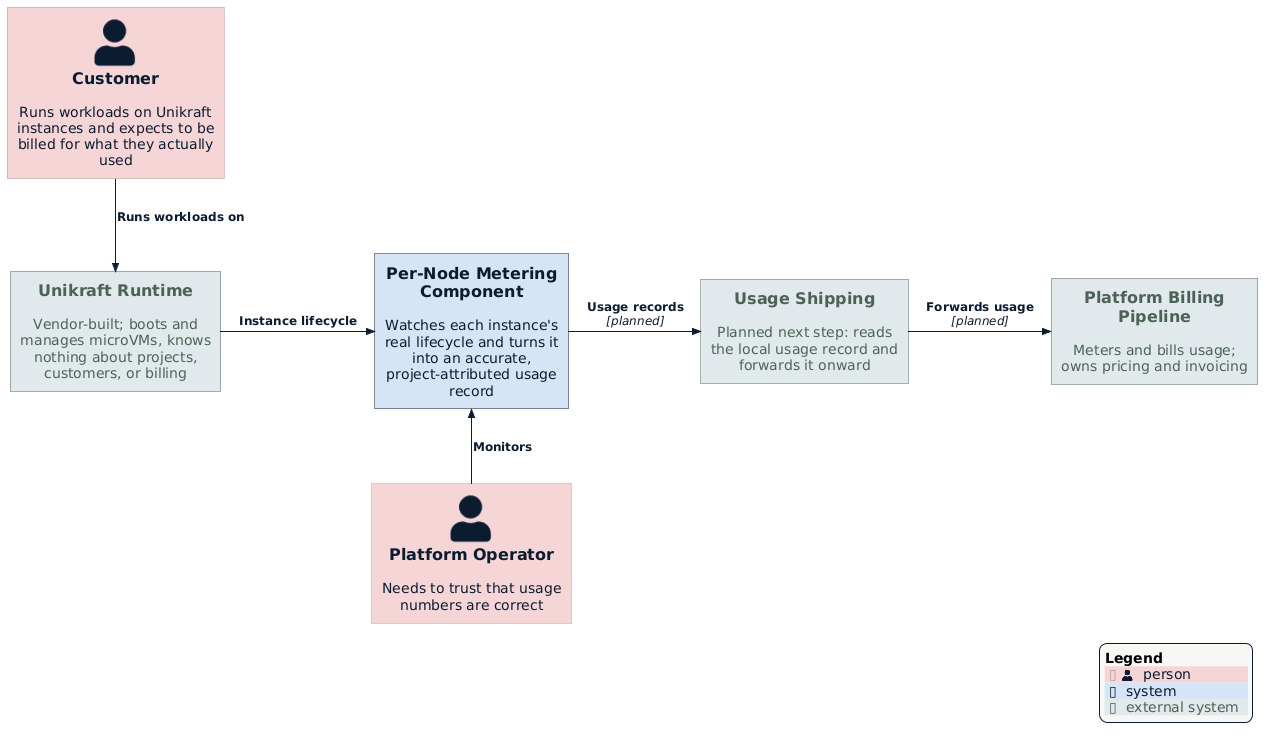
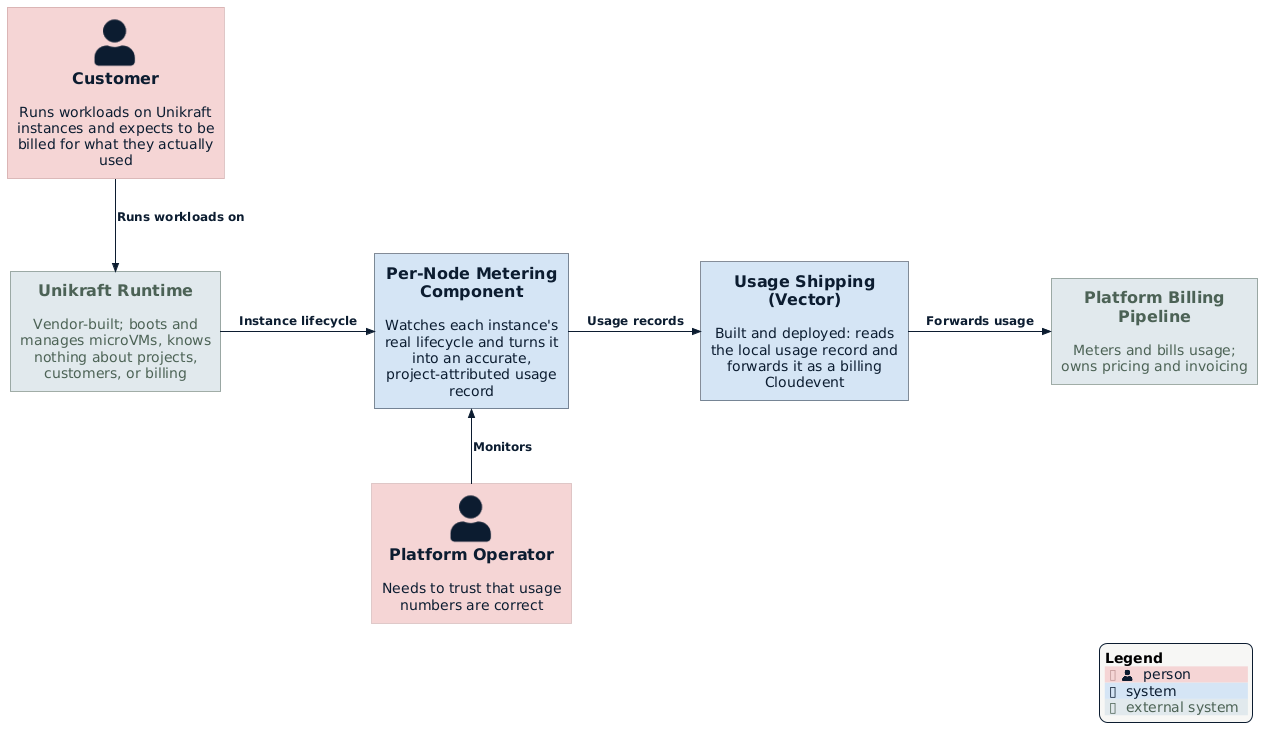
feat: implement usage shipping with Vector and update architecture documentation to reflect full validation against production traffic

Changed region(s): [[0.5528, 0.3419, 0.737, 0.5595], [0.7063, 0.4041, 0.8291, 0.4662], [0.4606, 0.4041, 0.5528, 0.4662]]

diff --git a/docs/enhancements/usage-metering/README.md b/docs/enhancements/usage-metering/README.md
@@ -34,11 +34,12 @@ component, running on every node, that watches each instance's real lifecycle as
 happens and turns it into an accurate record: which project it belongs to, and exactly
 how long it actually ran.
 
-That record is the raw material a second, much simpler step will use: reading it and
+That record is the raw material a second, much simpler step uses: reading it and
 forwarding it, in the platform's standard format, to wherever usage is ultimately
-metered and billed. The first half — producing an accurate, attributed usage record —
-is built and has been validated end to end. The second half — shipping that record
-onward — is the next step, and is a comparatively small piece of work, because the hard
+metered and billed. Both halves are now built. The first — producing an accurate,
+attributed usage record — has been validated end to end, including against real
+production traffic. The second — shipping that record onward — is implemented as a
+Vector agent that tails the record and forwards it as a billing Cloudevent; the hard
 problem here was never "how do we move data," it was "how do we know, correctly, what
 happened and to whom."
 
@@ -78,11 +79,9 @@ provisioned.
   does not decide what anyone owes.
 - **Metering anything that isn't actually running.** Reserved-but-idle capacity isn't
   billed through this mechanism.
-- **The full path to the central billing system, end to end, right now.** This covers
-  producing an accurate record on each node and the plan for shipping it onward. Full
-  validation of the shipping step is sequenced behind the compute service reliably
-  running real instances — this document says so plainly rather than assuming it
-  around.
+- **Deciding how the runtime itself is configured or upgraded.** This works with
+  whatever identity and lifecycle information the runtime already exposes on the node;
+  it does not change the runtime's own behavior.
 
 ## Proposal
 
@@ -131,11 +130,10 @@ stateDiagram-v2
     Idle --> [*]: instance removed
 ```
 
-This has already been built and validated end to end in a full simulated environment,
-and is now deployed and running on real infrastructure. What's still outstanding is
-confirming it against real, live traffic — which is waiting on the compute service
-reliably getting instances to a running state there, not on anything this component
-still needs to do.
+This has been built and validated end to end — first in a full simulated environment,
+and now confirmed against real production traffic: long-running instances are
+correctly attributed to their real project, with the right size and elapsed time,
+flushing incrementally as expected.
 
 ### Risks and Mitigations
 
@@ -146,11 +144,13 @@ still needs to do.
 - **The component itself has an outage.** Any gap is bounded and self-heals on
   restart; a retried report never counts the same usage twice.
 - **Local usage data could grow without bound.** The component manages this on its
-  own, keeping only what's needed until the shipping step (once it exists) has
-  confirmed it was picked up.
-- **This can't be fully proven until the compute service is reliably running real
-  instances.** That's a sequencing fact, not a flaw in this design — it's called out
-  here rather than glossed over.
+  own, keeping only what's needed until the shipping step confirms it was picked up.
+- **The runtime changes something this depends on.** This has already happened once —
+  a networking change on the runtime silently broke how instances were identified —
+  and the fix was to depend on a more fundamental, less coupled piece of identity
+  instead of chasing the specific thing that changed. The same caution applies to the
+  planned ingestion change below: prefer the option least coupled to incidental
+  runtime behavior.
 
 ## Design Details
 
@@ -165,30 +165,44 @@ would not have that same immediacy or precision.
 
 ### The Shipping Step
 
-The next piece of work is comparatively small: a lightweight, widely used
-data-shipping tool will read the usage records this component produces and forward
-them — translated into the platform's standard usage format — to wherever usage is
-ultimately metered and billed. Because the hard problem (accurate measurement and
-attribution) is already solved, this step is mostly about transport and format, not
-new logic.
+This is built: a lightweight, widely used data-shipping tool (Vector) reads the usage
+records this component produces and forwards them — translated into the platform's
+standard billing Cloudevent format — to the billing pipeline. Because the hard problem
+(accurate measurement and attribution) was already solved, this step turned out to be
+exactly what it was expected to be: mostly transport and format, not new logic.
 
 ## Technical Details
 
 The metering component is a small program written in Go, running as a sidecar
 container inside the same per-node pod as the Unikraft runtime itself — one per
 compute node, deployed and upgraded alongside the runtime rather than as a separate
-rollout. It connects directly to the runtime's own local event stream on that node, so
-it learns about a lifecycle change essentially as it happens, not on a polling delay.
-It separately keeps track of which project each instance belongs to by watching the
-cluster, and combines the two to produce each usage record. Records are appended, one
-per line, to a plain local file on the node as they're produced.
+rollout.
 
-Reading that file and shipping it onward is planned to be handled by **Vector**, a
-widely used open-source data-pipeline agent. Vector would run on each node as well
-(the file it reads is local to that node), tailing it as new lines are appended and
-forwarding each one, translated into the platform's usage-event format, to the billing
-pipeline. This piece has not been built yet — it's the next step once the metering
-side is confirmed against real traffic.
+**Ingest.** It connects to the runtime's own local event stream on that node, so it
+learns about a lifecycle change essentially as it happens, not on a polling delay.
+Today that connection is a Unix socket the runtime pushes events over live. That has
+one real drawback: it requires an active connection at the exact moment an event
+fires, so a redeploy or brief crash of this component can miss an event a live socket
+would have delivered. The planned change is to instead have the runtime write its
+events to a plain file on disk, which this component tails — durable to its own
+restarts, since the runtime keeps appending regardless of whether anything is reading
+at that moment. This is a resilience improvement to *how events arrive*; it does not
+change anything about how usage is measured or attributed once they do.
+
+**Attribute.** It separately keeps track of which project and instance each running VM
+belongs to, by watching the cluster — the runtime itself has no notion of either.
+Originally this join went through the instance's network address; that broke when a
+networking change on the runtime stopped exposing it, so it was replaced with a more
+direct piece of identity the runtime exposes per instance regardless of its network
+configuration. The two are combined to produce each usage record, which is appended,
+one per line, to a plain local file.
+
+**Ship.** Reading that file and shipping it onward is handled by **Vector**, a widely
+used open-source data-pipeline agent, running on each node as well (the file it reads
+is local to that node). It tails the file as new lines are appended, and for each one
+emits a billing Cloudevent — carrying the project, the instance, and the resource
+consumption for that window (compute-time and memory-time) — to the platform's billing
+pipeline.
 
 ## Drawbacks
 
@@ -210,14 +224,27 @@ side is confirmed against real traffic.
 ## Implementation History
 
 - The per-node metering component: **implemented and validated** end to end in a
-  simulated environment, and deployed to real infrastructure. Confirming it against
-  real production traffic is pending the compute service reliably running instances
-  there.
-- The shipping step: **proposed here**, not yet built.
+  simulated environment, and **confirmed against real production traffic** —
+  long-running instances are correctly attributed with the right project, size, and
+  elapsed time.
+- The instance-identity join it uses: **revised once already**. It originally went
+  through the instance's network address; a networking change on the runtime broke
+  that, and it was replaced with a more direct piece of identity — verified against
+  the same production traffic above.
+- The shipping step: **implemented and deployed** — a Vector agent tails the local
+  usage record and forwards each window as a billing Cloudevent to the platform's
+  billing pipeline.
+- Ingestion (runtime → metering component): **planned change** from a Unix socket to
+  a file the runtime writes and this component tails, for resilience to this
+  component's own restarts.
 
 ## Infrastructure Needed
 
-- A data-shipping component, configured to read this component's output and forward
-  it onward — not yet deployed.
+- ~~A data-shipping component, configured to read this component's output and forward
+  it onward.~~ Done — deployed as part of the platform's existing Vector-based billing
+  agent.
 - A receiving side on the platform's billing pipeline able to accept what gets
-  shipped once that step exists.
+  shipped — in place, since this reuses the same billing Cloudevent pipeline other
+  usage sources already ship through.
+- A runtime configuration change to add the planned file-based event sink, once the
+  ingestion migration above is scheduled.
